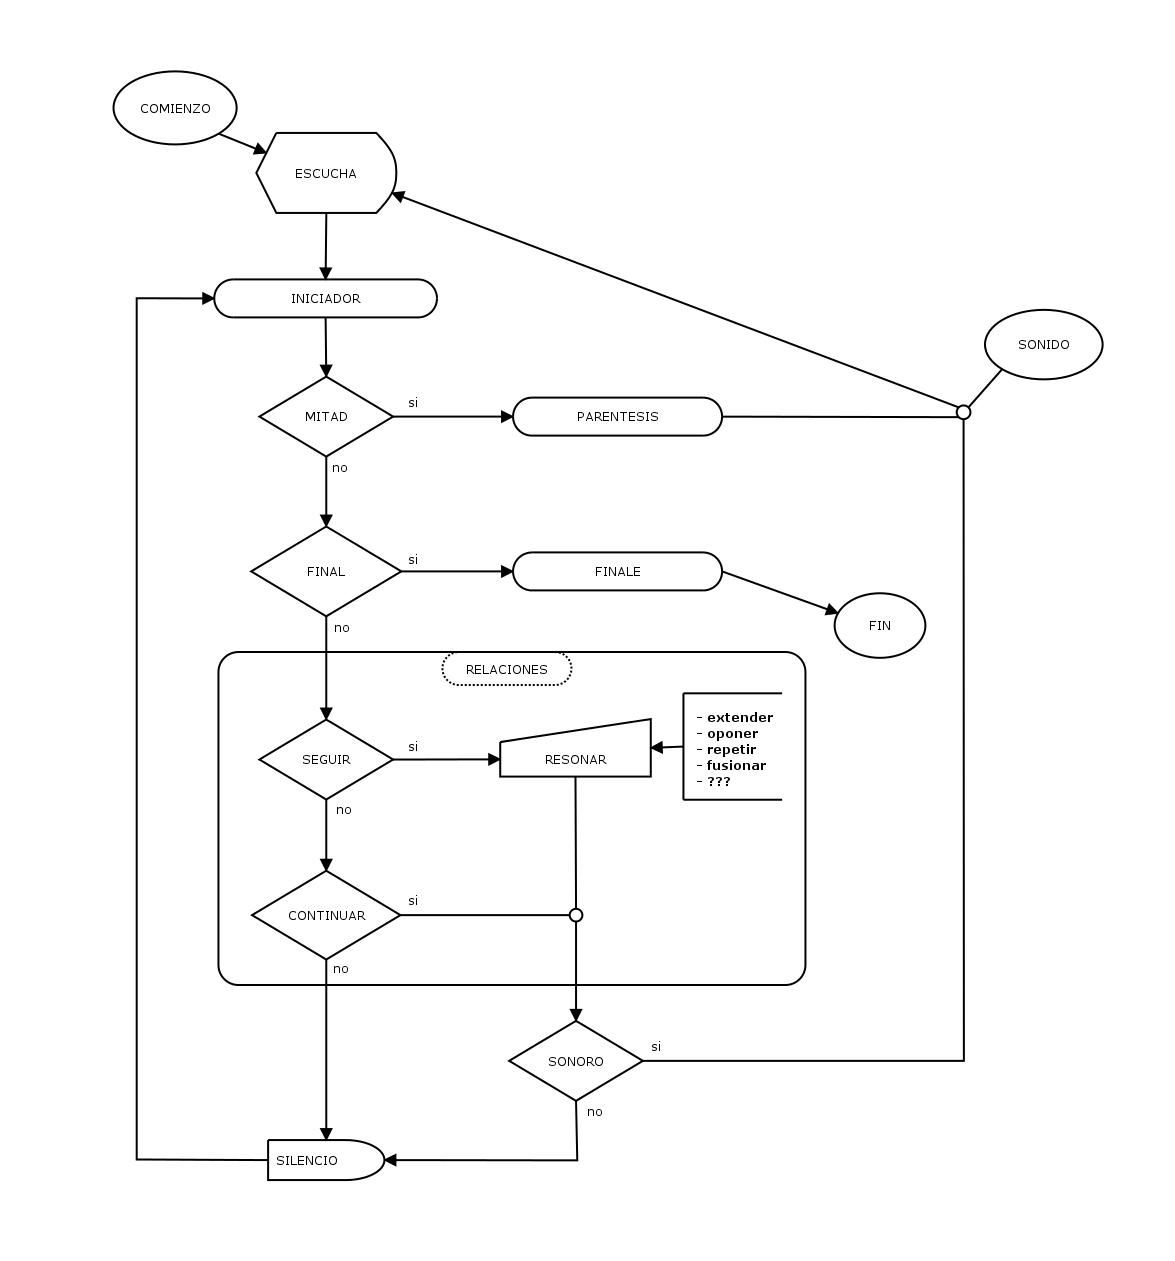
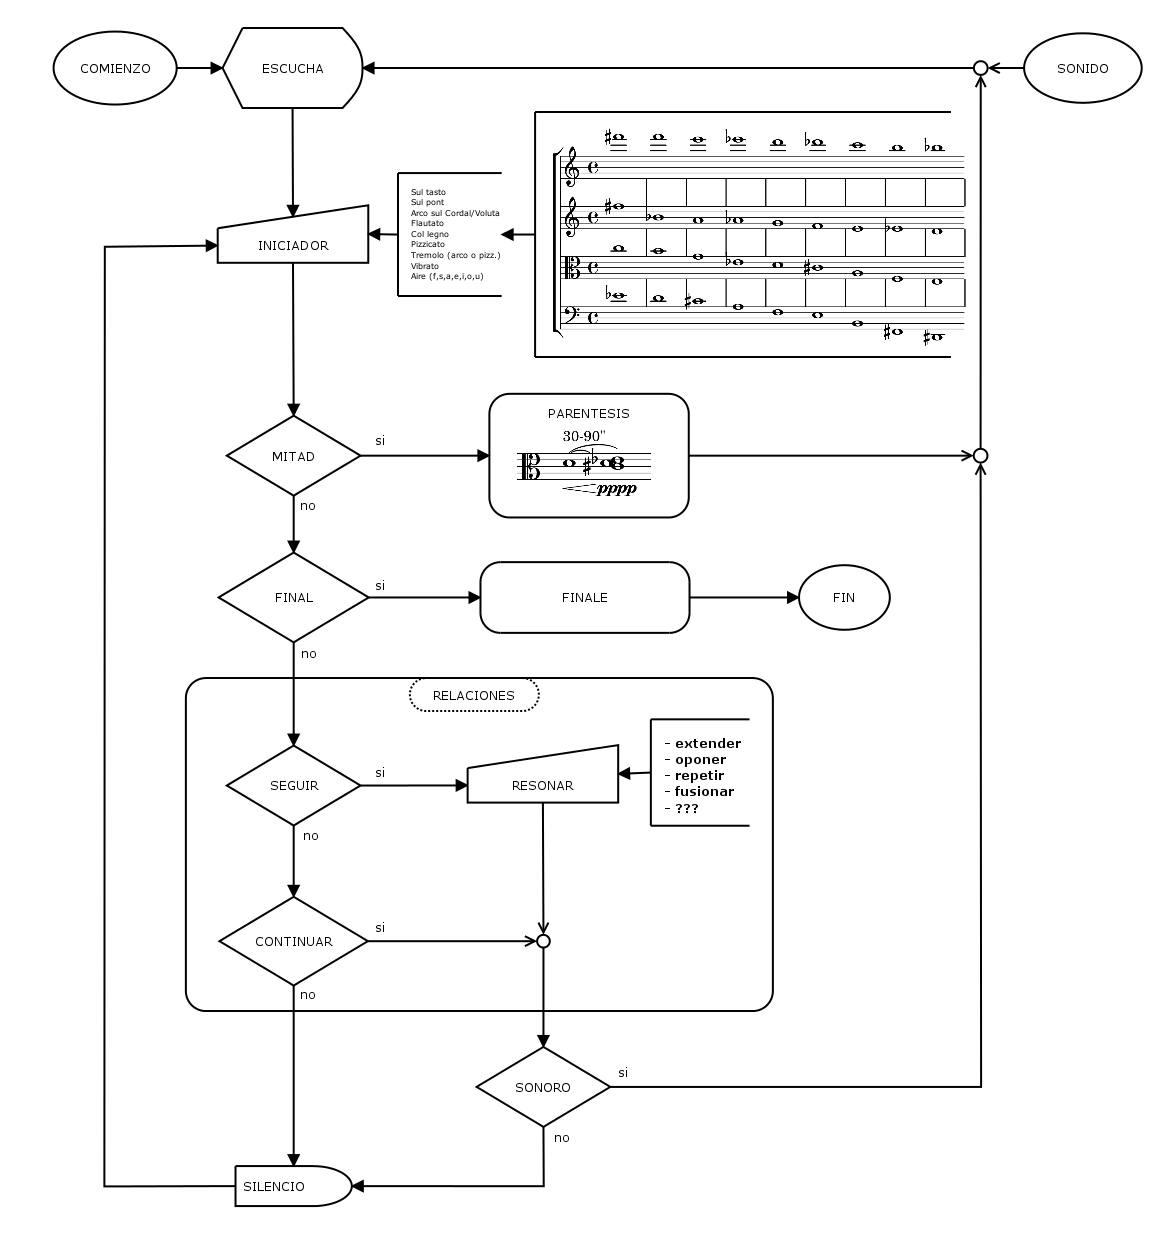
...updates

diff --git a/III/index.html b/III/index.html
@@ -4,7 +4,7 @@
 	RELACIONES DE NUBE | Fede Cámara Halac
 
 	AUTOMATICALLY GENERATED FROM: 'sh make_html_file.sh'
-	Sun Nov  4 23:30:24 CET 2018
+	Mon Nov  5 21:16:13 CET 2018
 
 	CONTACT FCH226@NYU.EDU
 
@@ -15,5 +15,5 @@
 <meta name="viewport" content="width=device-width,minimum-scale=0.5,maximum-scale=1.5,user-scalable=yes">
 <link rel="stylesheet" type="text/css" href="../css/pandoc.css"></head>
 <body>
-<main> <div id=rec-0-3> <audio controls> <source src="../puredata/audio/rec-0-3.mp3" type="audio/mpeg"> Your browser does not support the audio element. </audio> </div> <h1 id="viola">VIOLA</h1> <figure> <img src="../example/viola_part.png" /> </figure> <hr /> <h3 id="técnicas">TÉCNICAS</h3> Los intérpretes deben utilizar <em>todas</em> las siguientes técnicas, combinando de cualquier manera por lo menos 3 (tres): <ol type="1"> <li>Sul tasto</li> <li>Sul pont</li> <li>Arco sobre Cordal/Voluta</li> <li>Flautato</li> <li>Col legno</li> <li>Pizzicato</li> <li>Tremolo (<em>arco</em> o <em>pizz</em>.)</li> <li>Vibrato</li> <li>Agregar <em>ruido</em> con aire (con cualquier vocal o consonante fricativa, &lt; <em>f</em> &gt; o &lt; <em>s</em> &gt;)</li> </ol> <hr /> <h2 id="indicaciones-especiales">INDICACIONES ESPECIALES</h2> <ol type="1"> <li>Moverse arbitrariamente entre las tres sillas (Ver <a href="#para-viola">Cosas para Viola</a>).</li> <li>Puede realizar cualquiera de las siguientes acciones en cualquier momento, pero <em>también</em> se deben realizar en los momentos indicados. Deben realizarse muy lentamente y en el rango dinámico más bajo posible: <ol type="1"> <li>Se debe llenar un vaso de agua hasta la mitad (3:15)</li> <li>Se debe abrir una lata de gaseosa (6:43)</li> <li>Se debe empujar una silla durante 5-10 segundos (7:10)</li> <li>Debe sonar una bolsa de plástico durante 10-25 segundos (8:00)</li> </ol></li> <li><strong>Solo una vez</strong>, hacer una acción de su elección para seguir algún sonido de la pista.</li> <li>Estas acciones pueden reemplazar cualquiera de los <a href="#iniciadores">iniciadores</a>, <em>pero no el <a href="#paréntesis">paréntesis</a></em>.</li> </ol> <hr /> <h2 id="parentesis">PARENTESIS</h2> Debe tocarse un <em>paréntesis</em> una vez pasada la mitad de la obra. <ol type="1"> <li>La <strong>viola</strong> debe tocar el <strong>Re</strong> central <strong><em>pppp</em></strong>, sobre la cuerda de Sol, y con una duración de 30-90 segundos.</li> <li>Los otros tienen que dejar de hacer lo que están haciendo cuando se dan cuenta de que esto está sucediendo, tocar en <strong><em>pppp</em></strong> utilizando cualquiera de las técnicas indicadas (la duración está determinada por la viola): <ol type="1"> <li>Un intérprete debe <em>tocar la misma altura</em>.</li> <li>Los dos intérpretes restantes deben tocar cada uno una segunda menor adyacente: <strong>Mib</strong> y <strong>Reb</strong>.</li> </ol></li> </ol> <hr /></main></body></html>
+<main> <div id=rec-0-3> <audio controls> <source src="../puredata/audio/rec-0-3.mp3" type="audio/mpeg"> Your browser does not support the audio element. </audio> </div> <h1 id="viola">VIOLA</h1> <figure> <img src="../example/viola_part.png" /> </figure> <hr /> <h3 id="técnicas">TÉCNICAS</h3> Los intérpretes deben utilizar <em>todas</em> las siguientes técnicas, combinando de cualquier manera por lo menos 3 (tres): <ol type="1"> <li>Sul tasto</li> <li>Sul pont</li> <li>Arco sobre Cordal/Voluta</li> <li>Flautato</li> <li>Col legno</li> <li>Pizzicato</li> <li>Tremolo (<em>arco</em> o <em>pizz</em>.)</li> <li>Vibrato</li> <li>Agregar <em>ruido</em> con aire (con cualquier vocal o consonante fricativa, &lt; <em>f</em> &gt; o &lt; <em>s</em> &gt;)</li> </ol> <hr /> <h2 id="indicaciones-especiales">INDICACIONES ESPECIALES</h2> <ol type="1"> <li>Moverse arbitrariamente entre las tres sillas (Ver <a href="#para-viola">Cosas para Viola</a>).</li> <li>Puede realizar cualquiera de las siguientes acciones en cualquier momento, pero <em>también</em> se deben realizar en los momentos indicados. Deben realizarse muy lentamente y en el rango dinámico más bajo posible: <ol type="1"> <li>Se debe llenar un vaso de agua hasta la mitad (3:15)</li> <li>Se debe abrir una lata de gaseosa (6:43)</li> <li>Se debe empujar una silla durante 5-10 segundos (7:10)</li> <li>Debe sonar una bolsa de plástico durante 10-25 segundos (8:00)</li> </ol></li> <li><strong>Solo una vez</strong>, hacer una acción de su elección para seguir algún sonido de la pista.</li> <li>Estas acciones pueden reemplazar cualquiera de los <a href="#iniciadores">iniciadores</a>, <em>pero no el <a href="#paréntesis">paréntesis</a></em>.</li> </ol> <hr /> <h2 id="parentesis">PARENTESIS</h2> Debe tocarse un <em>paréntesis</em> una vez pasada la mitad de la obra. A modo de guía, puede verse la siguiente <a href="example/parentesis/parentesis.png">partitura</a>: <figure> <img src="example/parentesis/parentesis.png" /> </figure> <ol type="1"> <li>La <strong>viola</strong> debe tocar el <strong>Re</strong> central <strong><em>pppp</em></strong>, sobre la cuerda de Sol, y con una duración de 30-90 segundos.</li> <li>Los otros tienen que dejar de hacer lo que están haciendo cuando se dan cuenta de que esto está sucediendo, tocar en <strong><em>pppp</em></strong> utilizando cualquiera de las técnicas indicadas (la duración está determinada por la viola): <ol type="1"> <li>Un intérprete debe <em>tocar la misma altura</em>.</li> <li>Los dos intérpretes restantes deben tocar cada uno una segunda menor adyacente: <strong>Mib</strong> y <strong>Reb</strong>.</li> </ol></li> </ol> <hr /></main></body></html>
 

diff --git a/II/index.html b/II/index.html
@@ -4,7 +4,7 @@
 	RELACIONES DE NUBE | Fede Cámara Halac
 
 	AUTOMATICALLY GENERATED FROM: 'sh make_html_file.sh'
-	Sun Nov  4 23:30:24 CET 2018
+	Mon Nov  5 21:16:13 CET 2018
 
 	CONTACT FCH226@NYU.EDU
 
@@ -15,5 +15,5 @@
 <meta name="viewport" content="width=device-width,minimum-scale=0.5,maximum-scale=1.5,user-scalable=yes">
 <link rel="stylesheet" type="text/css" href="../css/pandoc.css"></head>
 <body>
-<main> <div id=rec-0-2> <audio controls> <source src="../puredata/audio/rec-0-2.mp3" type="audio/mpeg"> Your browser does not support the audio element. </audio> </div> <h1 id="violinii">VIOLINII</h1> <figure> <img src="../example/violinii_part.png" /> </figure> <hr /> <h3 id="técnicas">TÉCNICAS</h3> Los intérpretes deben utilizar <em>todas</em> las siguientes técnicas, combinando de cualquier manera por lo menos 3 (tres): <ol type="1"> <li>Sul tasto</li> <li>Sul pont</li> <li>Arco sobre Cordal/Voluta</li> <li>Flautato</li> <li>Col legno</li> <li>Pizzicato</li> <li>Tremolo (<em>arco</em> o <em>pizz</em>.)</li> <li>Vibrato</li> <li>Agregar <em>ruido</em> con aire (con cualquier vocal o consonante fricativa, &lt; <em>f</em> &gt; o &lt; <em>s</em> &gt;)</li> </ol> <hr /> <h2 id="parentesis">PARENTESIS</h2> Debe tocarse un <em>paréntesis</em> una vez pasada la mitad de la obra. <ol type="1"> <li>La <strong>viola</strong> debe tocar el <strong>Re</strong> central <strong><em>pppp</em></strong>, sobre la cuerda de Sol, y con una duración de 30-90 segundos.</li> <li>Los otros tienen que dejar de hacer lo que están haciendo cuando se dan cuenta de que esto está sucediendo, tocar en <strong><em>pppp</em></strong> utilizando cualquiera de las técnicas indicadas (la duración está determinada por la viola): <ol type="1"> <li>Un intérprete debe <em>tocar la misma altura</em>.</li> <li>Los dos intérpretes restantes deben tocar cada uno una segunda menor adyacente: <strong>Mib</strong> y <strong>Reb</strong>.</li> </ol></li> </ol> <hr /></main></body></html>
+<main> <div id=rec-0-2> <audio controls> <source src="../puredata/audio/rec-0-2.mp3" type="audio/mpeg"> Your browser does not support the audio element. </audio> </div> <h1 id="violinii">VIOLINII</h1> <figure> <img src="../example/violinii_part.png" /> </figure> <hr /> <h3 id="técnicas">TÉCNICAS</h3> Los intérpretes deben utilizar <em>todas</em> las siguientes técnicas, combinando de cualquier manera por lo menos 3 (tres): <ol type="1"> <li>Sul tasto</li> <li>Sul pont</li> <li>Arco sobre Cordal/Voluta</li> <li>Flautato</li> <li>Col legno</li> <li>Pizzicato</li> <li>Tremolo (<em>arco</em> o <em>pizz</em>.)</li> <li>Vibrato</li> <li>Agregar <em>ruido</em> con aire (con cualquier vocal o consonante fricativa, &lt; <em>f</em> &gt; o &lt; <em>s</em> &gt;)</li> </ol> <hr /> <h2 id="parentesis">PARENTESIS</h2> Debe tocarse un <em>paréntesis</em> una vez pasada la mitad de la obra. A modo de guía, puede verse la siguiente <a href="example/parentesis/parentesis.png">partitura</a>: <figure> <img src="example/parentesis/parentesis.png" /> </figure> <ol type="1"> <li>La <strong>viola</strong> debe tocar el <strong>Re</strong> central <strong><em>pppp</em></strong>, sobre la cuerda de Sol, y con una duración de 30-90 segundos.</li> <li>Los otros tienen que dejar de hacer lo que están haciendo cuando se dan cuenta de que esto está sucediendo, tocar en <strong><em>pppp</em></strong> utilizando cualquiera de las técnicas indicadas (la duración está determinada por la viola): <ol type="1"> <li>Un intérprete debe <em>tocar la misma altura</em>.</li> <li>Los dos intérpretes restantes deben tocar cada uno una segunda menor adyacente: <strong>Mib</strong> y <strong>Reb</strong>.</li> </ol></li> </ol> <hr /></main></body></html>
 

diff --git a/I/index.html b/I/index.html
@@ -4,7 +4,7 @@
 	RELACIONES DE NUBE | Fede Cámara Halac
 
 	AUTOMATICALLY GENERATED FROM: 'sh make_html_file.sh'
-	Sun Nov  4 23:30:24 CET 2018
+	Mon Nov  5 21:16:13 CET 2018
 
 	CONTACT FCH226@NYU.EDU
 
@@ -15,5 +15,5 @@
 <meta name="viewport" content="width=device-width,minimum-scale=0.5,maximum-scale=1.5,user-scalable=yes">
 <link rel="stylesheet" type="text/css" href="../css/pandoc.css"></head>
 <body>
-<main> <div id=rec-0-1> <audio controls> <source src="../puredata/audio/rec-0-1.mp3" type="audio/mpeg"> Your browser does not support the audio element. </audio> </div> <h1 id="violini">VIOLINI</h1> <figure> <img src="../example/violini_part.png" /> </figure> <hr /> <h3 id="técnicas">TÉCNICAS</h3> Los intérpretes deben utilizar <em>todas</em> las siguientes técnicas, combinando de cualquier manera por lo menos 3 (tres): <ol type="1"> <li>Sul tasto</li> <li>Sul pont</li> <li>Arco sobre Cordal/Voluta</li> <li>Flautato</li> <li>Col legno</li> <li>Pizzicato</li> <li>Tremolo (<em>arco</em> o <em>pizz</em>.)</li> <li>Vibrato</li> <li>Agregar <em>ruido</em> con aire (con cualquier vocal o consonante fricativa, &lt; <em>f</em> &gt; o &lt; <em>s</em> &gt;)</li> </ol> <hr /> <h2 id="parentesis">PARENTESIS</h2> Debe tocarse un <em>paréntesis</em> una vez pasada la mitad de la obra. <ol type="1"> <li>La <strong>viola</strong> debe tocar el <strong>Re</strong> central <strong><em>pppp</em></strong>, sobre la cuerda de Sol, y con una duración de 30-90 segundos.</li> <li>Los otros tienen que dejar de hacer lo que están haciendo cuando se dan cuenta de que esto está sucediendo, tocar en <strong><em>pppp</em></strong> utilizando cualquiera de las técnicas indicadas (la duración está determinada por la viola): <ol type="1"> <li>Un intérprete debe <em>tocar la misma altura</em>.</li> <li>Los dos intérpretes restantes deben tocar cada uno una segunda menor adyacente: <strong>Mib</strong> y <strong>Reb</strong>.</li> </ol></li> </ol> <hr /></main></body></html>
+<main> <div id=rec-0-1> <audio controls> <source src="../puredata/audio/rec-0-1.mp3" type="audio/mpeg"> Your browser does not support the audio element. </audio> </div> <h1 id="violini">VIOLINI</h1> <figure> <img src="../example/violini_part.png" /> </figure> <hr /> <h3 id="técnicas">TÉCNICAS</h3> Los intérpretes deben utilizar <em>todas</em> las siguientes técnicas, combinando de cualquier manera por lo menos 3 (tres): <ol type="1"> <li>Sul tasto</li> <li>Sul pont</li> <li>Arco sobre Cordal/Voluta</li> <li>Flautato</li> <li>Col legno</li> <li>Pizzicato</li> <li>Tremolo (<em>arco</em> o <em>pizz</em>.)</li> <li>Vibrato</li> <li>Agregar <em>ruido</em> con aire (con cualquier vocal o consonante fricativa, &lt; <em>f</em> &gt; o &lt; <em>s</em> &gt;)</li> </ol> <hr /> <h2 id="parentesis">PARENTESIS</h2> Debe tocarse un <em>paréntesis</em> una vez pasada la mitad de la obra. A modo de guía, puede verse la siguiente <a href="example/parentesis/parentesis.png">partitura</a>: <figure> <img src="example/parentesis/parentesis.png" /> </figure> <ol type="1"> <li>La <strong>viola</strong> debe tocar el <strong>Re</strong> central <strong><em>pppp</em></strong>, sobre la cuerda de Sol, y con una duración de 30-90 segundos.</li> <li>Los otros tienen que dejar de hacer lo que están haciendo cuando se dan cuenta de que esto está sucediendo, tocar en <strong><em>pppp</em></strong> utilizando cualquiera de las técnicas indicadas (la duración está determinada por la viola): <ol type="1"> <li>Un intérprete debe <em>tocar la misma altura</em>.</li> <li>Los dos intérpretes restantes deben tocar cada uno una segunda menor adyacente: <strong>Mib</strong> y <strong>Reb</strong>.</li> </ol></li> </ol> <hr /></main></body></html>
 

diff --git a/IV/index.html b/IV/index.html
@@ -4,7 +4,7 @@
 	RELACIONES DE NUBE | Fede Cámara Halac
 
 	AUTOMATICALLY GENERATED FROM: 'sh make_html_file.sh'
-	Sun Nov  4 23:30:24 CET 2018
+	Mon Nov  5 21:16:13 CET 2018
 
 	CONTACT FCH226@NYU.EDU
 
@@ -15,5 +15,5 @@
 <meta name="viewport" content="width=device-width,minimum-scale=0.5,maximum-scale=1.5,user-scalable=yes">
 <link rel="stylesheet" type="text/css" href="../css/pandoc.css"></head>
 <body>
-<main> <div id=rec-0-4> <audio controls> <source src="../puredata/audio/rec-0-4.mp3" type="audio/mpeg"> Your browser does not support the audio element. </audio> </div> <h1 id="cello">CELLO</h1> <figure> <img src="../example/cello_part.png" /> </figure> <hr /> <h3 id="técnicas">TÉCNICAS</h3> Los intérpretes deben utilizar <em>todas</em> las siguientes técnicas, combinando de cualquier manera por lo menos 3 (tres): <ol type="1"> <li>Sul tasto</li> <li>Sul pont</li> <li>Arco sobre Cordal/Voluta</li> <li>Flautato</li> <li>Col legno</li> <li>Pizzicato</li> <li>Tremolo (<em>arco</em> o <em>pizz</em>.)</li> <li>Vibrato</li> <li>Agregar <em>ruido</em> con aire (con cualquier vocal o consonante fricativa, &lt; <em>f</em> &gt; o &lt; <em>s</em> &gt;)</li> </ol> <hr /> <h2 id="parentesis">PARENTESIS</h2> Debe tocarse un <em>paréntesis</em> una vez pasada la mitad de la obra. <ol type="1"> <li>La <strong>viola</strong> debe tocar el <strong>Re</strong> central <strong><em>pppp</em></strong>, sobre la cuerda de Sol, y con una duración de 30-90 segundos.</li> <li>Los otros tienen que dejar de hacer lo que están haciendo cuando se dan cuenta de que esto está sucediendo, tocar en <strong><em>pppp</em></strong> utilizando cualquiera de las técnicas indicadas (la duración está determinada por la viola): <ol type="1"> <li>Un intérprete debe <em>tocar la misma altura</em>.</li> <li>Los dos intérpretes restantes deben tocar cada uno una segunda menor adyacente: <strong>Mib</strong> y <strong>Reb</strong>.</li> </ol></li> </ol> <hr /></main></body></html>
+<main> <div id=rec-0-4> <audio controls> <source src="../puredata/audio/rec-0-4.mp3" type="audio/mpeg"> Your browser does not support the audio element. </audio> </div> <h1 id="cello">CELLO</h1> <figure> <img src="../example/cello_part.png" /> </figure> <hr /> <h3 id="técnicas">TÉCNICAS</h3> Los intérpretes deben utilizar <em>todas</em> las siguientes técnicas, combinando de cualquier manera por lo menos 3 (tres): <ol type="1"> <li>Sul tasto</li> <li>Sul pont</li> <li>Arco sobre Cordal/Voluta</li> <li>Flautato</li> <li>Col legno</li> <li>Pizzicato</li> <li>Tremolo (<em>arco</em> o <em>pizz</em>.)</li> <li>Vibrato</li> <li>Agregar <em>ruido</em> con aire (con cualquier vocal o consonante fricativa, &lt; <em>f</em> &gt; o &lt; <em>s</em> &gt;)</li> </ol> <hr /> <h2 id="parentesis">PARENTESIS</h2> Debe tocarse un <em>paréntesis</em> una vez pasada la mitad de la obra. A modo de guía, puede verse la siguiente <a href="example/parentesis/parentesis.png">partitura</a>: <figure> <img src="example/parentesis/parentesis.png" /> </figure> <ol type="1"> <li>La <strong>viola</strong> debe tocar el <strong>Re</strong> central <strong><em>pppp</em></strong>, sobre la cuerda de Sol, y con una duración de 30-90 segundos.</li> <li>Los otros tienen que dejar de hacer lo que están haciendo cuando se dan cuenta de que esto está sucediendo, tocar en <strong><em>pppp</em></strong> utilizando cualquiera de las técnicas indicadas (la duración está determinada por la viola): <ol type="1"> <li>Un intérprete debe <em>tocar la misma altura</em>.</li> <li>Los dos intérpretes restantes deben tocar cada uno una segunda menor adyacente: <strong>Mib</strong> y <strong>Reb</strong>.</li> </ol></li> </ol> <hr /></main></body></html>
 

diff --git a/index.html b/index.html
@@ -163,7 +163,10 @@
 </ol>
 <hr />
 <h2 id="parentesis">PARENTESIS</h2>
-<p>Debe tocarse un <em>paréntesis</em> una vez pasada la mitad de la obra.</p>
+<p>Debe tocarse un <em>paréntesis</em> una vez pasada la mitad de la obra. A modo de guía, puede verse la siguiente <a href="example/parentesis/parentesis.png">partitura</a>:</p>
+<figure>
+<img src="example/parentesis/parentesis.png" />
+</figure>
 <ol type="1">
 <li><p>La <strong>viola</strong> debe tocar el <strong>Re</strong> central <strong><em>pppp</em></strong>, sobre la cuerda de Sol, y con una duración de 30-90 segundos.</p></li>
 <li><p>Los otros tienen que dejar de hacer lo que están haciendo cuando se dan cuenta de que esto está sucediendo, tocar en <strong><em>pppp</em></strong> utilizando cualquiera de las técnicas indicadas (la duración está determinada por la viola):</p>

diff --git a/audio/index.html b/audio/index.html
@@ -4,7 +4,7 @@
 	RELACIONES DE NUBE | Fede Cámara Halac
 
 	AUTOMATICALLY GENERATED FROM: 'sh make_html_file.sh'
-	Sun Nov  4 23:30:24 CET 2018
+	Mon Nov  5 21:16:13 CET 2018
 
 	CONTACT FCH226@NYU.EDU
 

diff --git a/audio/rec-0-1.html b/audio/rec-0-1.html
@@ -4,7 +4,7 @@
 	RELACIONES DE NUBE | Fede Cámara Halac
 
 	AUTOMATICALLY GENERATED FROM: 'sh make_html_file.sh'
-	Sun Nov  4 23:30:24 CET 2018
+	Mon Nov  5 21:16:13 CET 2018
 
 	CONTACT FCH226@NYU.EDU
 

diff --git a/audio/rec-0-2.html b/audio/rec-0-2.html
@@ -4,7 +4,7 @@
 	RELACIONES DE NUBE | Fede Cámara Halac
 
 	AUTOMATICALLY GENERATED FROM: 'sh make_html_file.sh'
-	Sun Nov  4 23:30:24 CET 2018
+	Mon Nov  5 21:16:13 CET 2018
 
 	CONTACT FCH226@NYU.EDU
 

diff --git a/audio/rec-0-3.html b/audio/rec-0-3.html
@@ -4,7 +4,7 @@
 	RELACIONES DE NUBE | Fede Cámara Halac
 
 	AUTOMATICALLY GENERATED FROM: 'sh make_html_file.sh'
-	Sun Nov  4 23:30:24 CET 2018
+	Mon Nov  5 21:16:13 CET 2018
 
 	CONTACT FCH226@NYU.EDU
 

diff --git a/audio/rec-0-4.html b/audio/rec-0-4.html
@@ -4,7 +4,7 @@
 	RELACIONES DE NUBE | Fede Cámara Halac
 
 	AUTOMATICALLY GENERATED FROM: 'sh make_html_file.sh'
-	Sun Nov  4 23:30:24 CET 2018
+	Mon Nov  5 21:16:13 CET 2018
 
 	CONTACT FCH226@NYU.EDU
 

diff --git a/README.md b/README.md
@@ -164,7 +164,9 @@ La acción de **no seguir el sonido** puede significar:
 ## PARENTESIS
 
 
-Debe tocarse un *paréntesis* una vez pasada la mitad de la obra.
+Debe tocarse un *paréntesis* una vez pasada la mitad de la obra. A modo de guía, puede verse la siguiente [partitura](example/parentesis/parentesis.png):
+
+![](example/parentesis/parentesis.png)
 
 1.  La **viola** debe tocar el **Re** central ***pppp***, sobre la cuerda de Sol, y con una duración de 30-90 segundos.
 

diff --git a/md/parentesis.md b/md/parentesis.md
@@ -1,4 +1,6 @@
-Debe tocarse un *paréntesis* una vez pasada la mitad de la obra.
+Debe tocarse un *paréntesis* una vez pasada la mitad de la obra. A modo de guía, puede verse la siguiente [partitura](example/parentesis/parentesis.png):
+
+![](example/parentesis/parentesis.png)
 
 1.  La **viola** debe tocar el **Re** central ***pppp***, sobre la cuerda de Sol, y con una duración de 30-90 segundos.
 
